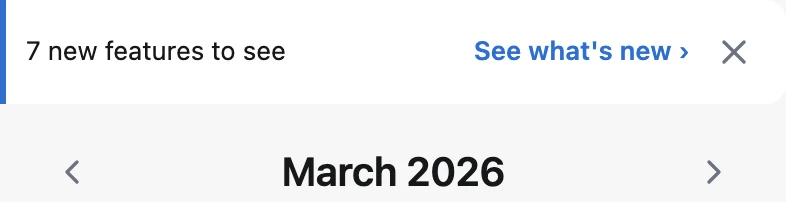
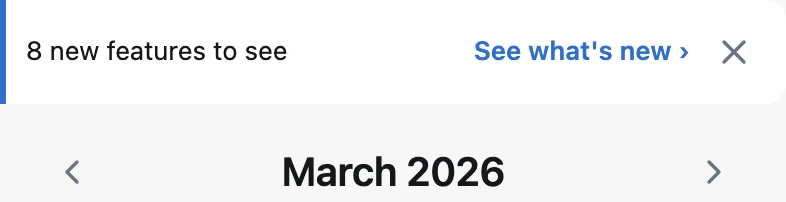
docs(progress): 体重の線の期間別設定を ADR・README・マニュアル・お知らせに書く
- ADR `adr/ux/weight-line-daily-or-weekly-per-period.md` を新設。点数トリガ（45 点）を捨てて
  期間ごとの設定にした理由、既定 Daily・Daily・Weekly の根拠（6M は閾値論で決めていないと明記）、
  「2 点以上ある週が無ければ落とさない」規則が系列単位であるトレードオフ、却下案を残す
- `body-weight-second-axis-always-on.md` の決定 5 と結果「3M 以降は週平均」を一部改訂の引用で
  名指しし、関連行と `adr/README.md` の索引から新 ADR へ繋ぐ。本文は消さない
- README ja/en: 設定タブの行一覧に「体重の線 / Weight line」（ja は 8 行→9 行）、体重の項に
  期間別設定の 1 文
- マニュアル「グラフの読み取り欄」に 2 項目 × 2 言語、`RELEASES` に id 5（2026-09-21）
- `assets/3-menu.png` を `shots.mjs --only=readme` で撮り直し（設定トップが 9 行）。
  `public/manual/{ja,en}/whats-new.webp` はお知らせの中身が変わったぶん（寸法 393×101 は不変）

Changed region(s): [[0.0305, 0.2079, 0.3664, 0.297]]

diff --git a/src/i18n.rs b/src/i18n.rs
@@ -1061,6 +1061,8 @@ const JA_MANUAL: Manual = Manual {
                 "自重種目では実質「総レップ数」、時間で数える種目では「総秒数」になります。",
                 "期間を「全期間」にすると、日ごとの点が週単位にまとめられます。",
                 "週単位では、指標は週の合計、体重は週の平均です。",
+                "3M・6M・1Yの体重の線は、設定タブの「体重の線」で日ごとか週平均かを期間ごとに選べます。",
+                "既定は3M・6Mが日ごと、1Yが週平均。1Mは常に日ごとです。週1回以下の計量なら週平均でも線は変わりません。",
                 "体重の第2軸は、指標のグラフが表示されているときだけ重ねて出ます。",
                 "指標に記録が無い期間では、体重の記録があっても第2軸は出ません。",
             ],
@@ -1262,6 +1264,8 @@ const EN_MANUAL: Manual = Manual {
                 "For bodyweight exercises this becomes \"total reps\"; for time-based ones, \"total seconds.\"",
                 "Setting the period to \"All\" groups the daily points by week.",
                 "Weekly, the metric becomes a sum and body weight becomes an average.",
+                "For 3M, 6M and 1Y, choose per period under \"Weight line\" in Settings whether the body-weight line is daily or a weekly average.",
+                "By default 3M and 6M are daily and 1Y is weekly; 1M is always daily. At one weigh-in a week or fewer, weekly changes nothing.",
                 "The body-weight second axis only overlays when the metric chart has something to show.",
                 "In a period with no metric records, the second axis doesn't appear even with body weight logged.",
             ],
@@ -1585,6 +1589,16 @@ impl ReleaseNote {
 /// 直前の最新から 1 つ進める。`&'static [ReleaseNote]` ではなく `&[ReleaseNote]` と書く
 /// （clippy::redundant_static_lifetimes。`presets::PRESETS` と同じ書き方）。
 pub const RELEASES: &[ReleaseNote] = &[
+    ReleaseNote {
+        id: 5,
+        date: "2026-09-21",
+        ja: &[
+            "推移タブの体重の線を、3M・6M・1Y のそれぞれで日ごとに描くか週平均にするか選べるようにしました（設定タブ → 体重の線）。これまでは点が多いと自動で週平均になっていましたが、3M・6M は既定で日ごと、1Y は計量の回数に関係なく既定で週平均です。",
+        ],
+        en: &[
+            "The Progress tab's body-weight line can now be drawn daily or as a weekly average, chosen separately for 3M, 6M and 1Y (Settings › Weight line). It used to switch to a weekly average on its own once a period held many weigh-ins; 3M and 6M now default to daily, and 1Y defaults to weekly however often you weigh in.",
+        ],
+    },
     ReleaseNote {
         id: 4,
         date: "2026-09-11",

diff --git a/adr/ux/weight-line-daily-or-weekly-per-period.md b/adr/ux/weight-line-daily-or-weekly-per-period.md
@@ -1,0 +1,107 @@
+# 体重の線を 3M / 6M / 1Y ごとに日ごと / 週平均から選ぶ設定にする
+
+- **状態**: 採用
+- **日付**: 2026-09-21
+- **カテゴリ**: ux
+- **関連**: [体重を推移グラフの第2軸に常時重ねる](body-weight-second-axis-always-on.md)（決定 5 と結果の「3M 以降は週平均」を改訂）, [グラフの座標計算を `chart_layout` に切り出してテスト可能にする](../architecture/chart-layout-as-a-testable-module.md), [ドロップセットの段はメインセットの下の箱に出し、推移では既定で外して注記で開示する](drop-sets-as-a-box-under-the-main-set.md)（「推移の見せ方」設定の先例）, [前回までの記録を日付で出し、何回分出すかを表示設定にする](past-records-by-date-with-a-count-setting.md)（`.segmented` の設定サブページ）, [UI の状態を `Db` に入れず別キーに置く](../storage/ui-state-in-separate-key.md), [設定タブの入口を節の一覧にし、中身は 1 階層下ろす](settings-as-a-list-of-sections.md)
+
+## 背景
+
+[体重を推移グラフの第2軸に常時重ねる](body-weight-second-axis-always-on.md) は、体重の破線が
+`WEIGHT_DENSE_POINTS`（45 点）を超えたら**描画点数だけを見て**自動で週平均に落としていた。
+既定期間は 3M で、毎日計量する利用者は 3M の範囲（約 90 日）で必ずこの点数を超えるため、
+黙って週平均に切り替わっていた。注記（`weekly-note`）は「全期間」にしか出さない設計なので、
+3M で線がまとめられていることの理由が画面のどこにも無かった。
+
+利用者の報告：「3M を選ぶとまとめられていて日付単位の推移がわからない」。
+
+`X0 = 40` / `X1_DUAL = 286`（`src/chart_layout.rs`）なのでプロット幅は **246px**。
+1Y × 毎日計量 = 365 点を描くと 0.67px/点で破線が帯に潰れる（[体重を推移グラフの第2軸に常時重ねる](body-weight-second-axis-always-on.md) の「密なとき」の根拠そのもの）が、
+その閾値は利用者から見えない量であり、期間という見える量と結び付いていなかった。
+
+## 決定
+
+**「日ごとに描くか週平均に落とすか」を、3M / 6M / 1Y それぞれについて設定で選べるようにする。**
+点数トリガは廃止し、`chart_layout::layout` は呼び側が `core::WeightLine`（`Daily` / `Weekly`）を
+明示する。点数では二度と決めない。
+
+- **期間ごとの 3 トグル**（3M / 6M / 1Y）。**1M は常に日ごと**、**「全期間」は常に週集約**のまま
+  （`views::progress` の `weight` Memo が先に集約しており、これは変えない）
+- **既定は 3M = 日ごと、6M = 日ごと、1Y = 週平均**
+- `UiState` に `weight_weekly_3m|6m|1y: Option<i64>` を持つ（`0` = 日ごと / `1` = 週平均 /
+  `None` = 既定）。保存先は `Db` ではなく `fitness-memo/ui/v1`
+- **2 点以上ある週が 1 つも無ければ、`Weekly` を選んでいても日ごとのまま描く。** 週内の平均は
+  実測と同じ数字になるので、点を週開始日（日曜）へ動かす意味が無い。`WeightLayer.aggregated` の
+  意味は「実際に平均へ落としたか」のまま変えない（`drawn.len() != weight.len()` で判定する）
+- **画面に注記は出さない。** 「全期間」の `weekly-note` のような文は追加しない。事実は
+  `aria-label`（`chart_summary` の `smoothed`）と `data-weight-smoothed` に残す
+
+## 理由
+
+**点数は利用者に見えない量で、期間は見える量である。** 「45 点を超えたら」は利用者が
+コントロールできる操作（計量の頻度、期間の選択）と 1 対 1 に対応しない。期間ごとのトグルに
+すれば、利用者が選んだ「3M を見ている」という状態と設定が直接結び付く。
+
+**2 択（「密なら常に週平均」/「常に日ごと」）にも、「どの期間から週平均にするか」の 4 択にも
+しなかったのは利用者の選択。** 前者は 6M と 1Y で挙動を分けられず、後者は「6M から」を選ぶと
+3M は必ず日ごとになり、6M と 1Y が常に同じ扱いになる制約が残る。3 期間を独立に選べる形を
+利用者が選んだ。
+
+**1Y の既定を週平均にしたのは、365 点を 246px に描くと破線が帯になるため。**
+0.67px/点は「線が細かく揺れる」を超えて「灰色の帯」になる領域で、[体重を推移グラフの第2軸に常時重ねる](body-weight-second-axis-always-on.md) が
+既に検証済みの閾値をそのまま引き継いだ。
+
+**6M の既定を日ごとにしたのは利用者の選択で、正直に言うと閾値論では決めていない。**
+6M（約 182 日）を毎日計量で描くと 1.35px/点。1Y の 0.67px/点と 1M の約 8px/点の中間で、
+「潰れて帯になる」とまでは言えないが「間隔が詰まって見える」領域ではある。利用者は
+「6M はまだ日ごとで見たい」を選んだ。閾値で機械的に決めるなら 6M も週平均寄りに倒す余地は
+あるが、そうしなかった判断をここに正直に残す。
+
+**2 点以上ある週が無ければ日ごとのままにするのは、平均を取っても数字が変わらないから。**
+週 1 回計量する人が `Weekly` を選んでも、各週の平均はその 1 点の実測と同じ数字になる。
+それでも「日付を週開始日（日曜）へ動かす」処理だけは効いてしまい、読み取りの丸
+（`Band::w_y`）が消える副作用だけが残る。実益の無い副作用を避けるため、系列全体で
+2 点以上の週が 1 つも無いときは `drawn` を生データのまま通す。
+
+**設定を `Db` に置かないのは「推移の見せ方」だから。** [ドロップセットの段はメインセットの下の箱に出し、推移では既定で外して注記で開示する](drop-sets-as-a-box-under-the-main-set.md) の
+「含めるか」と同じ性質で、記録そのものではなく表示の選択なので `fitness-memo/ui/v1` に置く。
+
+## 結果（トレードオフ）
+
+- **日ごとにした 1Y は線が潰れうる。** 利用者が 1Y を日ごとに切り替えれば、0.67px/点の
+  帯へ戻ることを許容する。設定なので選んだ結果として受け入れる。
+- **1Y 既定 = 週平均 は、週 2 回以上計量する人の点を週開始日（日曜）へ吸着させ、読み取りの丸
+  （`w_y`）を消す。** 点数トリガを捨てた代償で、週 1 回以下の人は fallback 規則により
+  日ごとのまま変わらない。
+- **fallback は系列単位（全か無か）である。** 週 1 回だけ計量している系列に、ある週だけ
+  2 点目が入ると、**その系列全体**が日曜へ吸着する（1 週だけ吸着するわけではない）。
+  `weekly.len() == weight.len()` で系列全体を 1 回だけ判定しているため。週によって
+  日ごと / 週平均が混在する形にはしていない — 混在させると `w_y` の判定・X ドメインの
+  「左端は描画系列から取る」規則の両方が「その週だけ特別扱い」を要求し、複雑さが釣り合わない。
+- **設定トップが 9 行になった。** [設定タブの入口を節の一覧にし、中身は 1 階層下ろす](settings-as-a-list-of-sections.md) の
+  「トップは 1 画面に収まる」は 9 行でも保たれている。
+- **週平均を選んでも、週 1 回以下の計量なら絵が変わらない。** 「設定を変えたのに何も
+  起きない」ように見える。注記は出さない方針にしたので、この事情はマニュアルで説明する
+  （`src/i18n.rs` のマニュアル章）。
+
+## 検討した代替案
+
+- **2 択（密なら常に週平均 / 常に日ごと）で 3 期間まとめて** — 選択肢が 1 つで済むが、
+  6M と 1Y で挙動を分けられない。1Y だけ帯にしたくない・6M は日ごとで見たい、という
+  利用者の要求に応えられない
+- **「どの期間から週平均にするか」の 4 択（1M から／3M から／6M から／1Y から）** — 段階的で
+  分かりやすいが、「6M から」を選ぶと 1Y も自動で週平均になり、3 期間を独立に選べない
+- **点数を px 密度で判定する（`points / plot_width`）** — 点数の絶対値より画面の実際の密度に
+  近いが、判定基準が利用者にさらに見えなくなるだけで「見えない量で決まる」問題の根本は変わらない
+- **全期間も layout 側の `Weekly` 選択に寄せる**（`progress.rs` の事前集約をやめて
+  `chart_layout` に一本化） — 一貫はするが、全期間の帯が日曜に吸着し、その日に計量が無いと
+  読み取り欄の体重が消える。既存の「全期間は先に週平均済みの系列を渡す」経路のほうが
+  読み取りの安定性で勝る
+- **`Weekly` を無条件に適用する**（fallback 規則を持たない） — 実装は単純になるが、
+  疎な計量（週 1 回以下）でも点が日曜へ動くだけで、実測日と違う日付に点が描かれる
+  副作用だけが残る。実益が無いので却下した
+- **2 点以上ある週だけ丸めて、1 点の週は実日付のまま**（週単位で日ごと / 週平均を混在させる） —
+  「週 1 回の人は絵が変わらない」を週の粒度でも実現できるが、週キー = 日曜という不変条件と
+  「X ドメインの左端は描画系列から取る」規則が、混在する系列では両方崩れる。指標側の週集約
+  （`aggregate_weekly_points`）ともキーが揃わなくなり、2 本の線が別の日付軸に並ぶ危険がある。
+  複雑さに見合わないと判断し、系列単位（全か無か）の fallback を選んだ

diff --git a/README.md b/README.md
@@ -22,7 +22,7 @@ The app speaks **English and Japanese**. It follows your browser's language on f
 
 ## Screens
 
-There are three tabs: **Record / Progress / Settings**. The Record tab puts a month calendar and the selected day's editor on one screen — tap a day cell and the editor below becomes that day's ([Make the Record tab a single screen: calendar plus day editor](adr/ux/record-tab-calendar-with-day-editor.md)). The Settings tab is a list of sections — **Export / Import, Routines, Exercises, Sessions shown, Drop sets, how to add the app to your home screen, an in-app manual, and Language** — and tapping one takes you into it ([Make the Settings tab a list of sections and push the contents one level down](adr/ux/settings-as-a-list-of-sections.md)).
+There are three tabs: **Record / Progress / Settings**. The Record tab puts a month calendar and the selected day's editor on one screen — tap a day cell and the editor below becomes that day's ([Make the Record tab a single screen: calendar plus day editor](adr/ux/record-tab-calendar-with-day-editor.md)). The Settings tab is a list of sections — **Export / Import, Routines, Exercises, Sessions shown, Drop sets, Weight line, how to add the app to your home screen, an in-app manual, and Language** — and tapping one takes you into it ([Make the Settings tab a list of sections and push the contents one level down](adr/ux/settings-as-a-list-of-sections.md)).
 
 | Record | Progress | Settings |
 |---|---|---|
@@ -79,7 +79,7 @@ sh scripts/gen-og.sh      # public/og.png (1200x630) + assets/social-preview.png
 - **Add records from the calendar** — the Record tab is one screen with the month grid above and the selected day's editor below. Days you trained carry dots in their muscle-group colours. Even on a day with no records, **tapping the cell makes the editor below that day's**, so a session you forgot to log yesterday goes in without switching tabs.
 - **Grouped by muscle group** — 28 exercises across 6 groups (chest / back / shoulders / arms / legs / core) are seeded on first launch. The Exercises section lists **only the groups**; tapping one opens its exercises, and only one is open at a time. Names and colours are edited from the pencil on the right. Groups and exercises can be added, renamed and deleted ([Make the exercise list a collapsible list of muscle groups with one open at a time](adr/ux/menu-groups-as-single-open-accordion.md)). **The record tab's add-exercise sheet uses the same accordion**: tapping a muscle group reveals its exercises, only one is open at a time, and every time the sheet opens it starts fully collapsed, so the six group rows always sit in the same place ([Make the record tab's add-exercise sheet a muscle-group accordion with one open at a time](adr/ux/record-add-sheet-groups-as-single-open-accordion.md)).
 - **A chart of the work you did** — per exercise or per muscle group, as a line. The metric switches on the spot between volume = Σ(weight × reps), set count, and rep count. Periods are 1M / 3M / 6M / 1Y / All. The target is picked with **two selects, muscle group and exercise**: choosing a group narrows the exercise list to that group, and choosing an exercise fills the group in for you. Pick a group alone and you get one line summing every exercise in it. Only exercises **that have records** are listed (archived ones still show, at the end). **The last pair is remembered on the device**, so neither switching tabs nor reopening the app makes you pick again ([Make the progress target two selects: muscle group plus exercise](adr/ux/progress-target-as-group-plus-exercise-selects.md)).
-- **Body weight on a second axis** — your recorded body weight is **always** overlaid on the same chart as a dashed line on the right axis; there is no toggle. The point is to read "the weight went up, but so did I" on one screen. The right axis is scaled to the data rather than starting at zero, so changes of a few hundred grams stay visible ([Always overlay body weight on the progress chart's second axis](adr/ux/body-weight-second-axis-always-on.md)).
+- **Body weight on a second axis** — your recorded body weight is **always** overlaid on the same chart as a dashed line on the right axis; there is no toggle. The point is to read "the weight went up, but so did I" on one screen. The right axis is scaled to the data rather than starting at zero, so changes of a few hundred grams stay visible ([Always overlay body weight on the progress chart's second axis](adr/ux/body-weight-second-axis-always-on.md)). **For 3M, 6M and 1Y you can choose, per period, whether the weight line is drawn daily or smoothed to a weekly average** (Settings → Weight line; by default only 1Y is weekly, 1M is always daily, and "All" is always weekly). If no week in the period has two or more weigh-ins, the line stays the same even when set to weekly ([Choose daily or weekly for the body-weight line, per 3M / 6M / 1Y period](adr/ux/weight-line-daily-or-weekly-per-period.md)).
 - **Time since your last session** — overall and per muscle group. **Days are counted in local calendar days**: once the date rolls over you get "Yesterday / 3 days ago", and only within the same day do you get "45 min / 12 hr". Dividing elapsed time by 24 hours would roll over 24 hours after you trained, so last night's record would still read "today" the next morning ([Count elapsed days in local calendar days and keep clock granularity inside one day](adr/data-model/elapsed-in-local-calendar-days.md)).
 - **Body weight and a note for the day** — one line per day. It can be recorded on days you did not train, and those days still appear on the chart.
 - **Drop sets** — record up to four stages under a main set, for the reps you kept going for after dropping the weight. **Whether they count towards the Progress tab is a setting, and by default they do not** — mixing the dropped stages into volume inflates the baseline you use to decide "same or a little more" from one session to the next. Excluded, progress is based on your main sets alone; the Record tab's daily totals always count the stages too. **Set how much you drop by, as a percentage, and the first stage's weight is worked out for you** the moment you add it (20% by default, free input to one decimal place). From the second stage on the previous stage's weight is copied, so you only retype when you actually go lower. **Add one without opening anything** — the `↓` on the set row does it in place ([Show drop-set stages in a box under the main set and exclude them from progress by default](adr/ux/drop-sets-as-a-box-under-the-main-set.md)).

diff --git a/adr/ux/body-weight-second-axis-always-on.md b/adr/ux/body-weight-second-axis-always-on.md
@@ -3,7 +3,12 @@
 - **状態**: 採用
 - **日付**: 2026-08-09
 - **カテゴリ**: ux
-- **関連**: [グラフライブラリを使わず SVG を自前で描く](../architecture/no-chart-library-hand-rolled-svg.md), [指標を種目の属性ではなくグラフの表示設定にする](../data-model/metric-is-a-view-setting.md), [グラフの座標計算を `chart_layout` に切り出してテスト可能にする](../architecture/chart-layout-as-a-testable-module.md)
+- **関連**: [グラフライブラリを使わず SVG を自前で描く](../architecture/no-chart-library-hand-rolled-svg.md), [指標を種目の属性ではなくグラフの表示設定にする](../data-model/metric-is-a-view-setting.md), [グラフの座標計算を `chart_layout` に切り出してテスト可能にする](../architecture/chart-layout-as-a-testable-module.md), [体重の線を 3M / 6M / 1Y ごとに日ごと / 週平均から選ぶ設定にする](weight-line-daily-or-weekly-per-period.md)（決定 5 と結果の「3M 以降は週平均」を改訂）
+
+> **一部改訂。** 決定 5「描画点が 45 を超えたら描画だけ週平均に落とす」と結果の
+> 「3M 以降は週平均に落ちるので滑らかになる」は、
+> [体重の線を 3M / 6M / 1Y ごとに日ごと / 週平均から選ぶ設定にする](weight-line-daily-or-weekly-per-period.md) で
+> 「期間ごとの設定（既定は 1Y だけ週平均）」に置き換わった。本文は当時の判断の記録として消さない。
 
 ## 背景
 
